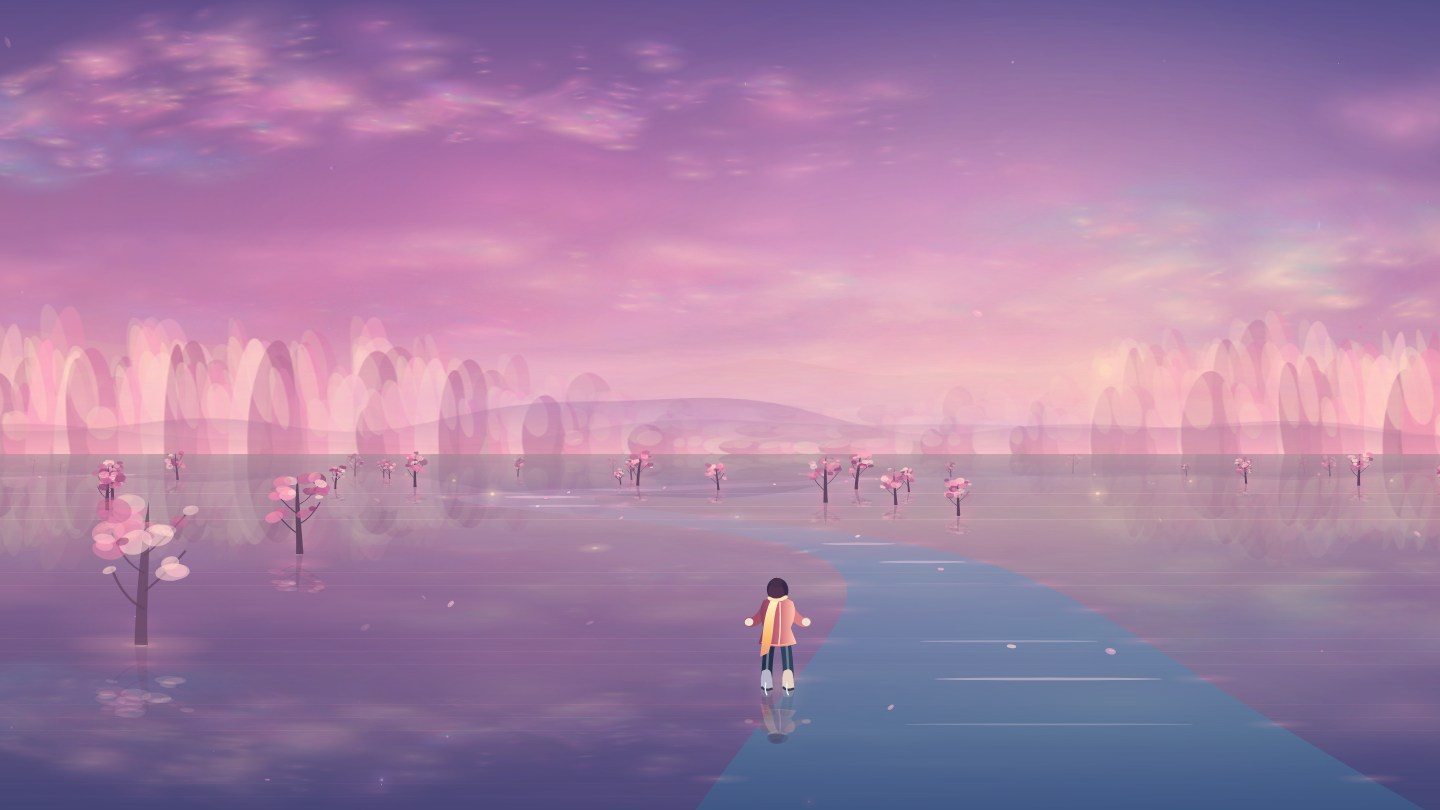
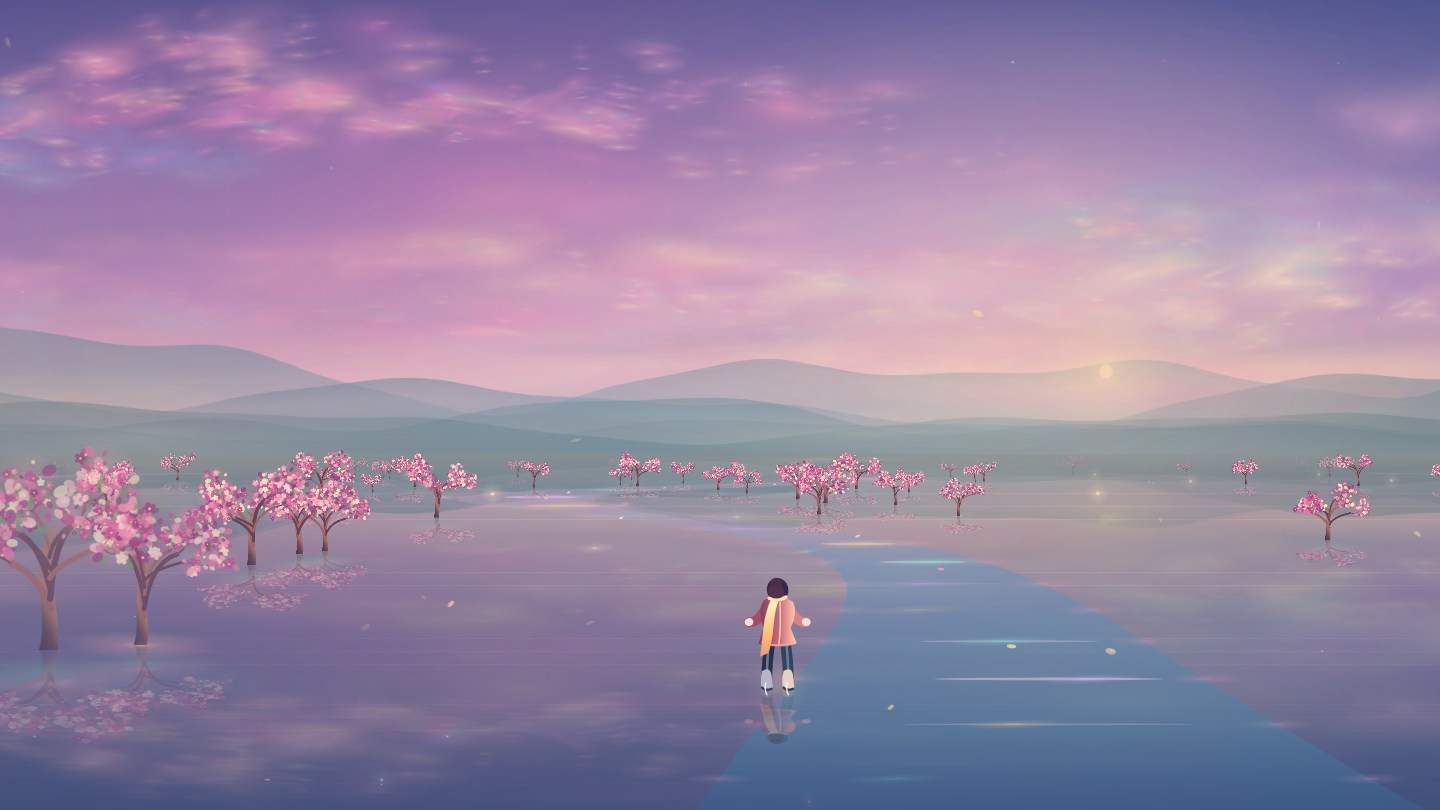
Refine peach blossoms and creek reflections

Changed region(s): [[0.0, 0.3704, 1.0, 0.8025], [0.0, 0.8333, 0.1562, 0.8951]]

diff --git a/index.html b/index.html
@@ -282,7 +282,7 @@ const chapters = [
       [760,"你慢慢滑过去。那一点暖意，也跟了上来。"]
     ]},
   {at:5220,name:"桃源深处",icon:"✿",weather:"桃雨 · 溪声",index:2,seed:1103,painting:7,grove:true,
-    sky:[81,73,132],mid:[180,119,163],line:[255,193,188],cloud:[255,169,189],shadow:[115,83,151],hills:[156,99,144],water:[52,63,105],light:[255,220,192],
+    sky:[75,80,137],mid:[163,133,180],line:[255,210,181],cloud:[249,176,199],shadow:[89,96,148],hills:[77,112,127],water:[52,77,109],light:[255,223,180],
     lines:[
       [24,"转过山脚，溪上漂来一瓣桃花。"],
       [190,"忽逢桃花林，夹岸数百步。","陶渊明《桃花源记》"],
@@ -564,21 +564,6 @@ function paintForestHorizon(c,w,h,p){
     pigmentGlow(c,w*.54,ground,w*.55,.063,0,layer===1?p.light:p.cloud,.27);
   }
 }
-function paintPeachHorizon(c,w,h,p){
-  for(let layer=0;layer<3;layer++){
-    for(let i=0;i<95;i++){
-      const seed=layer*431+i*23, u=(i+hash(seed)) / 95;
-      const x=w*u, opening=smooth(Math.abs(u-.54)/.28);
-      const height=h*(.013+opening*(.041+hash(seed+7)*.12));
-      const radius=Math.min(w,h*2)*(.008+hash(seed+4)*.015);
-      const y=h*(.92+layer*.036)-height*.42;
-      const rose=blend(peachLeaves[(i+layer)%5],p.cloud,.32);
-      ellipse(c,x,y,radius,height,rgba(rose,.45+layer*.14),.17*(hash(seed+3)-.5));
-      ellipse(c,x-radius*.4,y-height*.48,radius*.59,height*.55,rgba(p.light,.19+layer*.10),-.16);
-    }
-    pigmentGlow(c,w*.53,h*(.87+layer*.06),w*.53,.10,-.04,p.light,.29);
-  }
-}
 function paintFarmHorizon(c,w,h,p){
   for(let layer=0;layer<3;layer++){
     const base=h*(.90+layer*.055), height=h*(.44-layer*.076);
@@ -656,10 +641,10 @@ function paintSky(p) {
     }
     if(p.painting) paintedClouds(c,w,h,p);
     skyDetail(c,w,h,p);
-    for(let i=0;i<3;i++) ridge(c,w,h,p,i);
+    const landscape=p.grove?{...p,line:[135,159,175],hills:[65,99,116]}:p;
+    for(let i=0;i<3;i++) ridge(c,w,h,landscape,i);
     if(p.forest) paintForestHorizon(c,w,h,p);
     if(p.jade) paintJadeValley(c,w,h,p);
-    if(p.grove) paintPeachHorizon(c,w,h,p);
     if(p.farmland) paintFarmHorizon(c,w,h,p);
     for(let i=0;i<10;i++){
       const x=w*hash(i+320+p.seed), y=h*(.81+hash(i+621)*.20), r=w*(.12+hash(i+312)*.21);
@@ -702,7 +687,7 @@ const atmospheres = [
   {focus:[.76,.22], tones:[[165,180,255],[210,146,236],[116,200,222]], veil:.26, drift:"star"},
   {focus:[.51,.76], tones:[[255,189,110],[123,177,154],[174,156,191]], veil:.62, drift:"firefly"},
   {focus:[.66,.55], tones:[[255,230,173],[137,218,184],[225,171,190]], veil:.48, drift:"glint"},
-  {focus:[.57,.66], tones:[[255,181,206],[231,119,170],[191,159,232]], veil:.58, drift:"petal"},
+  {focus:[.57,.66], tones:[[255,215,154],[244,135,190],[154,199,213]], veil:.49, drift:"petal"},
   {focus:[.73,.64], tones:[[255,220,154],[162,202,138],[156,191,203]], veil:.38, drift:"glint"},
   {focus:[.76,.30], tones:[[196,196,234],[122,158,191],[172,129,169]], veil:.47, drift:"mist"}
 ];
@@ -1459,7 +1444,63 @@ function drawJadeBanks(opacity,world){
 }
 const forestLeaves=[[49,97,91],[81,121,107],[70,100,119],[122,105,130],[168,131,104]];
 const lanternGlow=[255,177,93];
-const peachLeaves=[[154,72,126],[199,103,155],[236,135,176],[255,169,196],[255,211,211]];
+const peachPetals=[[151,66,130],[201,80,145],[239,120,169],[255,159,188],[255,209,210],[255,233,202]];
+const peachTrees=[];
+function peachTreeImage(seed){
+  const variant=Math.floor(hash(seed+57)*24);
+  if(peachTrees[variant])return peachTrees[variant];
+  const image=document.createElement("canvas");
+  image.width=320;image.height=282;
+  const c=image.getContext("2d"), key=variant*997;
+  c.translate(160,266);
+  const lean=(hash(key+2)-.5)*52;
+  const wood=c.createLinearGradient(-15,0,19,-17);
+  wood.addColorStop(0,"#3e344e");wood.addColorStop(.57,"#664759");wood.addColorStop(1,"#aa776d");
+  c.fillStyle=wood;
+  c.beginPath();c.moveTo(-12,0);c.bezierCurveTo(1,-37,-21,-93,lean-5,-141);
+  c.lineTo(lean+4,-144);c.bezierCurveTo(-3,-88,16,-41,10,0);c.closePath();c.fill();
+  const crowns=[];
+  c.lineCap="round";
+  for(let i=0;i<7;i++){
+    const k=key+i*67, side=i%2?1:-1;
+    const x=lean+side*(26+hash(k+7)*99);
+    const y=-124-hash(k+19)*80;
+    const jointY=-48-i*12, splitX=x*.61, splitY=lerp(jointY,y,.69);
+    c.strokeStyle=i%3===0?"#9f6669":"#664359";
+    c.lineWidth=8-i*.65;
+    c.beginPath();c.moveTo(lean*.36,jointY);
+    c.quadraticCurveTo(x*.15,splitY+14,splitX,splitY);c.stroke();
+    for(let j=0;j<3;j++){
+      const tipX=x+(j-1)*(13+hash(k+j*9)*14);
+      const tipY=y+(j===1?-20:hash(k+j*11)*17);
+      c.lineWidth=2.3-j*.35;c.strokeStyle=j===1?"#ac6e74":"#69455e";
+      c.beginPath();c.moveTo(splitX,splitY);c.quadraticCurveTo(x*.82,tipY+15,tipX,tipY);c.stroke();
+      crowns.push({x:tipX,y:tipY,key:k+j*113});
+    }
+  }
+  for(const {x,y,key:k} of crowns){
+    const radius=20+hash(k+31)*15;
+    pigmentGlow(c,x,y,radius*1.37,.73,-.18,peachPetals[Math.floor(hash(k+27)*4)],.62);
+    for(let i=0;i<15;i++){
+      const q=k+i*19, angle=hash(q+7)*TAU, spread=Math.sqrt(hash(q+19))*radius;
+      const px=x+Math.cos(angle)*spread, py=y+Math.sin(angle)*spread*.70;
+      const r=2.6+hash(q+13)*6.5;
+      const color=peachPetals[Math.floor(hash(q+15)*peachPetals.length)];
+      if(i%4===0)ellipse(c,px+r,py+r*.5,r*1.22,r*.39,rgba([113,159,112],.79),angle);
+      if(i%3!==0){
+        ellipse(c,px,py,r,r*.73,rgba(color,.80),angle);
+        continue;
+      }
+      for(let petal=0;petal<5;petal++){
+        const turn=angle+petal*TAU/5;
+        ellipse(c,px+Math.cos(turn)*r*.46,py+Math.sin(turn)*r*.46,r*.53,r*.37,rgba(color,.94),turn);
+      }
+      ellipse(c,px,py,r*.22,r*.19,"#ffe0a5");
+    }
+  }
+  peachTrees[variant]=image;
+  return image;
+}
 const fieldColors=[[119,147,89],[151,171,94],[183,171,103],[102,144,106]];
 function drawFarmland(opacity,world){
   drawCreeks(opacity*.56,false);
@@ -1535,11 +1576,18 @@ function drawCreeks(opacity,petals){
     for(let i=1;i<steps;i+=2){
       const a=banks[0][i], b=banks[1][i], width=b.x-a.x;
       const shimmer=.5+.5*Math.sin((reduced?0:t*1.35)+i*.72+column);
+      if(a.x>W+50||b.x< -50)continue;
       ellipse(ctx,(a.x+b.x)*.5+width*.12*shimmer,a.y,width*.28,.5+shimmer*.85,rgba([255,212,231],opacity*shimmer*.45));
       const radius=Math.min(38,width*.21), fade=opacity*smooth((steps-i)/12);
       const bankColor=petals?[255,166,193]:[229,206,135];
       pigmentGlow(ctx,a.x,a.y,radius,.14,0,bankColor,fade*.28);
       pigmentGlow(ctx,b.x,b.y,radius,.14,0,bankColor,fade*.32);
+      if(petals){
+        const colors=[[255,211,130],[136,226,196],[213,171,249]];
+        const tint=colors[(i+Math.abs(column))%3];
+        const cx=lerp(a.x,b.x,.27+shimmer*.45);
+        pigmentGlow(ctx,cx,a.y,Math.min(56,width*.44),.085,-.03,tint,fade*(.24+shimmer*.40));
+      }
     }
     if(!petals)continue;
     for(let i=0;i<15;i++){
@@ -1547,32 +1595,56 @@ function drawCreeks(opacity,petals){
       const z=64+wrap(offset,1155);
       const x=creekCenter(column,distance+z)+(hash(seed+9)-.5)*19;
       const p=project(x,z);
+      if(p.x< -12||p.x>W+12)continue;
       const fade=opacity*smooth((z-64)/64)*smooth((1220-z)/420);
-      ellipse(ctx,p.x,p.y,1+p.scale*5,.6+p.scale*1.7,rgba(peachLeaves[3+i%2],fade*.82),hash(seed+4)-.5);
+      ellipse(ctx,p.x,p.y,1+p.scale*5,.6+p.scale*1.7,rgba(peachPetals[3+i%3],fade*.82),hash(seed+4)-.5);
     }
   }
 }
 function drawPeachGrove(opacity,world){
   drawCreeks(opacity,true);
+  const trees=[];
   for(const {object:{kind,seed,x,z:worldZ},depth:z,point:p} of world){
     if(kind>4)continue;
     const bankDistance=Math.abs(x-creekCenter(Math.round(x/creekSpacing),worldZ));
     if(bankDistance<31)continue;
+    trees.push({seed,z,p});
+  }
+  const center=Math.round(lateral*.61/creekSpacing);
+  const firstRow=Math.floor((distance+63)/96), lastRow=Math.floor((distance+920)/96);
+  for(let column=center-2;column<=center+2;column++){
+    for(let row=firstRow;row<=lastRow;row++){
+      for(const side of [-1,1]){
+        const seed=column*12097+row*871+side*47;
+        const worldZ=(row+hash(seed+39))*96, z=worldZ-distance;
+        if(z<63||z>920)continue;
+        const x=creekCenter(column,worldZ)+side*(42+hash(seed+43)*43);
+        const p=project(x,z);
+        if(p.x< -115||p.x>W+115)continue;
+        trees.push({seed,z,p});
+      }
+    }
+  }
+  trees.sort((a,b)=>b.z-a.z);
+  for(const {seed,z,p} of trees){
     const fade=opacity*smooth((z-63)/78)*smooth((1240-z)/530);
-    const size=(115+hash(seed+25)*172)*p.scale;
-    const sway=reduced?0:Math.sin(t*.73+seed*.023)*size*.047;
+    const size=(134+hash(seed+25)*180)*p.scale;
+    const sway=reduced?0:Math.sin(t*.73+seed*.023)*.026;
+    const tree=peachTreeImage(seed), width=size*1.21;
     ctx.save();ctx.translate(p.x,p.y);
-    pigmentGlow(ctx,0,-size*.14,size*.66,.48,-.07,[255,151,191],fade*.28);
-    pigmentGlow(ctx,0,size*.13,size*.48,.20,0,[250,144,186],fade*.48);
+    pigmentGlow(ctx,0,size*.11,size*.48,.20,0,[98,175,161],fade*.44);
+    pigmentGlow(ctx,0,size*.15,size*.53,.17,-.07,[253,152,192],fade*.34);
     ctx.save();ctx.beginPath();ctx.rect(-size,0,size*2,H-p.y);ctx.clip();
-    ctx.scale(.93,-.48);ctx.globalAlpha=fade*.24;forestTree(size,seed,sway,peachLeaves);ctx.restore();
-    ctx.globalAlpha=fade;forestTree(size,seed,sway,peachLeaves);ctx.restore();
+    ctx.scale(.93,-.46);ctx.rotate(sway);
+    ctx.globalAlpha=fade*.32;ctx.drawImage(tree,-width/2,-size,width,size*1.06);ctx.restore();
+    ctx.rotate(sway);
+    ctx.globalAlpha=fade;ctx.drawImage(tree,-width/2,-size,width,size*1.06);ctx.restore();
   }
 }
-function forestTree(size,seed,sway,leaves=forestLeaves){
+function forestTree(size,seed,sway){
   const lean=sway+(hash(seed+1)-.5)*size*.16;
   const spread=size*(.18+hash(seed+2)*.11);
-  ctx.fillStyle=leaves===peachLeaves?"#644563":"#283d49";
+  ctx.fillStyle="#283d49";
   ctx.beginPath();ctx.moveTo(-size*.045,0);
   ctx.bezierCurveTo(-size*.033,-size*.34,lean-size*.06,-size*.69,lean,-size);
   ctx.bezierCurveTo(lean+size*.015,-size*.62,size*.031,-size*.26,size*.048,0);
@@ -1587,7 +1659,7 @@ function forestTree(size,seed,sway,leaves=forestLeaves){
     const k=seed+i*17, x=lean+(hash(k+5)-.5)*spread*2.45;
     const y=-size*(.52+hash(k+7)*.5)+Math.abs(x-lean)*.20;
     const r=size*(.033+hash(k+11)*.095);
-    const color=leaves[Math.floor(hash(k+3)*leaves.length)];
+    const color=forestLeaves[Math.floor(hash(k+3)*forestLeaves.length)];
     const tilt=.65*(hash(k+4)-.5);
     ellipse(ctx,x,y,r,r*(.42+hash(k+2)*.33),rgba(color,.48+hash(k+9)*.31),tilt);
     ellipse(ctx,x-r*.24,y-r*.29,r*.52,r*.21,rgba(blend(color,lanternGlow,.28),.36),tilt-.14);

diff --git a/README.md b/README.md
@@ -19,7 +19,7 @@
 | 天河星原 | 星尘铺向远方，萤火虫跟着冰刀的微光飞一段。 | 银烛秋光冷画屏，轻罗小扇扑流萤。 |
 | 灯火葳蕤 | 林间的树影随风轻晃，暖灯一盏盏映在冰面上。 | 平林漠漠烟如织。 |
 | 蓝田日暖 | 暖阳照进青玉色的山谷，淡金薄雾贴着冰面流动。 | 蓝田日暖玉生烟。 |
-| 桃源深处 | 溪水拐过粉色桃林，花影和落瓣随水漂过。 | 忽逢桃花林，夹岸数百步。 |
+| 桃源深处 | 青黛远山下，玫粉与浅金的桃花簇拥溪岸，落瓣漂过青绿、淡金和粉紫的水光。 | 忽逢桃花林，夹岸数百步。 |
 | 归园田居 | 南山脚下有豆畦、浅水渠和几户炊烟，黄花点在田埂旁。 | 种豆南山下，草盛豆苗稀。采菊东篱下，悠然见南山。 |
 | 不系之舟 | 月夜乘舟，循黄州、惠州、儋州的意象远行，偶尔与另一盏船灯擦肩。 | 人生如逆旅，我亦是行人。 |
 
@@ -39,7 +39,7 @@
 
 | 桃源深处 | 归园田居 |
 | --- | --- |
-| ![粉色桃林与通向远处的溪水](reverie-peach.jpg) | ![豆畦、农舍与薄雾中的南山](reverie-farm.jpg) |
+| ![青黛远山、分枝开花的桃树与映彩的溪水](reverie-peach.jpg) | ![豆畦、农舍与薄雾中的南山](reverie-farm.jpg) |
 
 ![月下的两艘小舟，各自亮着一盏灯](reverie-river.jpg)
 
